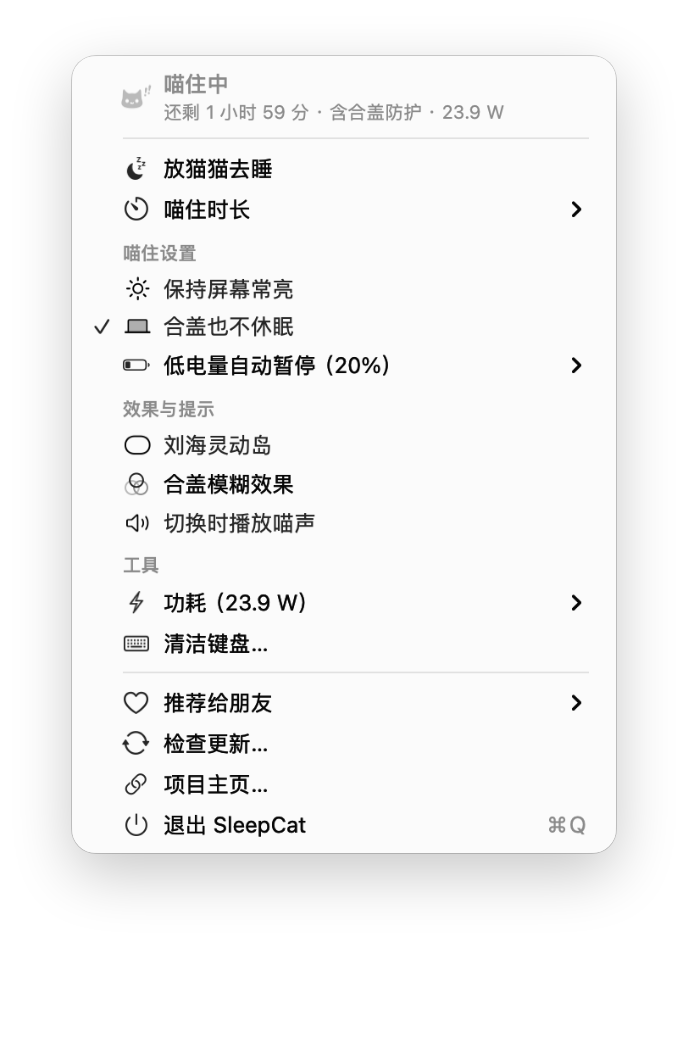
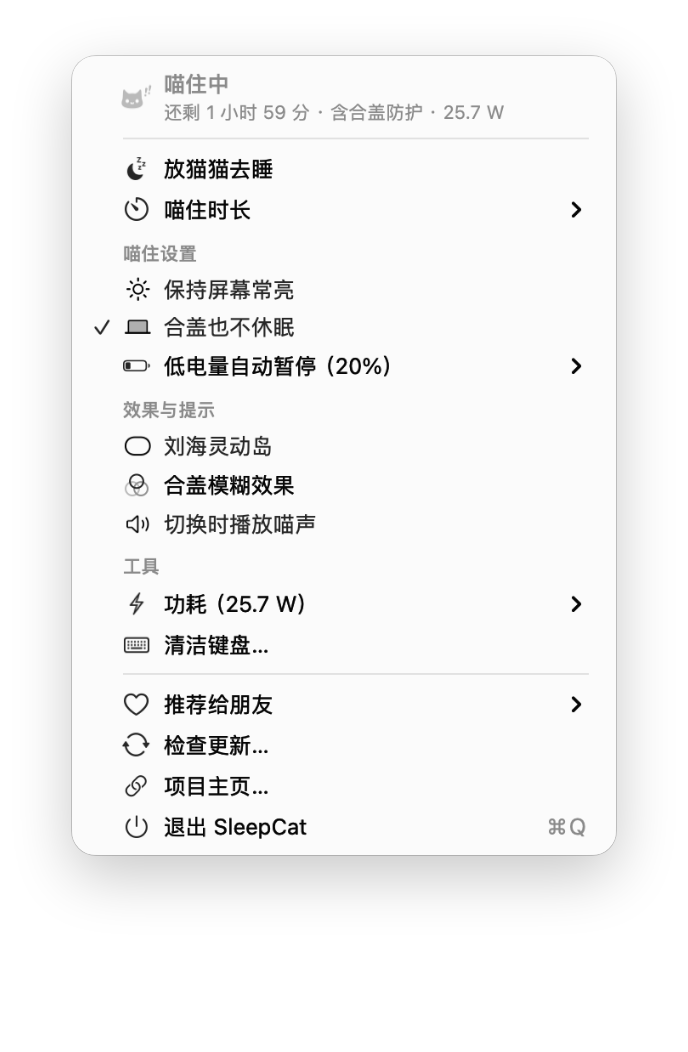
Drop the 今天用电 line
It summed the log rows that started today, which only covers the hours
the app happened to be running and recording — this evening that was 72
minutes, shown as if it were the whole day. A number that can't be right
shouldn't be on screen, so the menu and the chart window no longer show
it.

diff --git a/Sources/SleepCat/MenuRow.swift b/Sources/SleepCat/MenuRow.swift
@@ -118,25 +118,23 @@ private final class BackdropView: NSView {
     }
 }
 
-/// 功耗子菜单顶部的概览块：当前读数、统计、曲线、今天用电合在一行里自绘，
+/// 功耗子菜单顶部的概览块：当前读数、统计、曲线合在一行里自绘，
 /// 左边界和下面那些带图标的操作行对齐，不再是三段各自为政的文字
 final class PowerSummaryView: NSView {
     private let current: String
     private let stats: String?
     private let chart: NSImage?
-    private let footnote: String?
     private let timeRange: (start: String, end: String)?
 
     /// 和 MenuRow 的图标列对齐
     private static let leading: CGFloat = 30
     private static let trailing: CGFloat = 20
 
-    init(current: String, stats: String?, chart: NSImage?, footnote: String?,
+    init(current: String, stats: String?, chart: NSImage?,
          timeRange: (start: String, end: String)? = nil) {
         self.current = current
         self.stats = stats
         self.chart = chart
-        self.footnote = footnote
         self.timeRange = timeRange
         super.init(frame: .zero)
         let chartHeight = chart?.size.height ?? 0
@@ -149,14 +147,12 @@ final class PowerSummaryView: NSView {
         }
         let widest = max(textWidth(current, size: 15, weight: .semibold),
                          textWidth(stats, size: 11),
-                         textWidth(footnote, size: 11),
                          chart?.size.width ?? 0)
         let width = max(widest + Self.leading + Self.trailing, 260)
         var height: CGFloat = 26                                  // 当前读数
         if stats != nil { height += 16 }
         if chart != nil { height += chartHeight + 8 }
         if chart != nil, timeRange != nil { height += 13 }
-        if footnote != nil { height += 16 }
         setFrameSize(NSSize(width: width, height: height + 8))
         autoresizingMask = [.width]
     }
@@ -184,10 +180,6 @@ final class PowerSummaryView: NSView {
                      font: font, color: .tertiaryLabelColor)
             }
         }
-        if let footnote {
-            y -= 16
-            draw(footnote, at: NSPoint(x: Self.leading, y: y), font: .systemFont(ofSize: 11), color: .secondaryLabelColor)
-        }
     }
 
     private func draw(_ text: String, at point: NSPoint, font: NSFont, color: NSColor) {
@@ -204,7 +196,6 @@ final class PowerSummaryView: NSView {
                 current: "当前 12.5 W",
                 stats: PowerMeter.statsText(history).map { "近 \(PowerHistory.spanText(history.span))　\($0)" },
                 chart: PowerChart.image(for: history),
-                footnote: "今天用电 12.4 Wh",
                 timeRange: history.samples.first.map { (PowerAxis.timeLabel($0.time), "现在") })
             view.appearance = appearance
             // 菜单里是半透明底，这里垫一层菜单底色，不然浅色文字在透明底上看不见

diff --git a/Sources/SleepCat/PowerWindow.swift b/Sources/SleepCat/PowerWindow.swift
@@ -12,12 +12,10 @@ final class PowerWindowController: NSObject, NSWindowDelegate {
     private var window: NSWindow?
     private var chart: PowerChartView?
     private var timer: Timer?
-    private var source: (() -> (history: PowerHistory, footnote: String?))?
+    private var source: (() -> PowerHistory)?
 
-    /// - Parameters:
-    ///   - history: 每次刷新时现取，窗口不自己存数据
-    ///   - footnote: 底部那行（今天用电），文案和菜单里保持一致
-    func show(history: @escaping () -> (history: PowerHistory, footnote: String?)) {
+    /// - Parameter history: 每次刷新时现取，窗口不自己存数据
+    func show(history: @escaping () -> PowerHistory) {
         source = history
         if let window {
             refresh()
@@ -47,9 +45,7 @@ final class PowerWindowController: NSObject, NSWindowDelegate {
 
     private func refresh() {
         guard let source else { return }
-        let snapshot = source()
-        chart?.history = snapshot.history
-        chart?.footnote = snapshot.footnote
+        chart?.history = source()
         chart?.needsDisplay = true
     }
 
@@ -64,7 +60,6 @@ final class PowerChartView: NSView {
     var history = PowerHistory() {
         didSet { needsDisplay = true }
     }
-    var footnote: String?
     /// 切换跨度后回调，让菜单那边也跟着变
     var onSpanChange: (() -> Void)?
 
@@ -227,10 +222,6 @@ final class PowerChartView: NSView {
             let labelX = min(max(x - width / 2, plot.minX), plot.maxX - width)
             draw(text, at: NSPoint(x: labelX, y: plot.minY - 28), font: font, color: .tertiaryLabelColor)
         }
-        if let footnote {
-            draw(footnote, at: NSPoint(x: inset.left, y: 8),
-                 font: .systemFont(ofSize: 11), color: .secondaryLabelColor)
-        }
     }
 
     private func draw(_ text: String, at point: NSPoint, font: NSFont, color: NSColor) {
@@ -252,7 +243,6 @@ final class PowerChartView: NSView {
             let view = PowerChartView(frame: NSRect(x: 0, y: 0, width: 520, height: 300))
             view.appearance = appearance
             view.history = history
-            view.footnote = "今天用电 12.4 Wh"
             view.layoutSubtreeIfNeeded()
             guard let rep = view.bitmapImageRepForCachingDisplay(in: view.bounds) else { continue }
             view.cacheDisplay(in: view.bounds, to: rep)

diff --git a/Sources/SleepCat/main.swift b/Sources/SleepCat/main.swift
@@ -511,14 +511,10 @@ final class SleepCatApp: NSObject, NSApplicationDelegate, NSMenuDelegate {
 
     @objc private func openPowerWindow() {
         PowerWindowController.shared.show { [weak self] in
-            (self?.powerHistory ?? PowerHistory(), self?.powerFootnote())
+            self?.powerHistory ?? PowerHistory()
         }
     }
 
-    /// 今天累计用了多少电，菜单和曲线窗口用同一行文案
-    private func powerFootnote() -> String? {
-        PowerLog.todayWattHours().map { "今天用电 \(PowerMeter.energyText($0))" }
-    }
 
     @objc private func openPowerLog() {
         let url = PowerLog.fileURL
@@ -794,7 +790,7 @@ final class SleepCatApp: NSObject, NSApplicationDelegate, NSMenuDelegate {
         item.title = "功耗（\(PowerMeter.wattsText(watts))）"
         item.toolTip = "整机功耗，读自系统管理控制器（SMC）"
 
-        // 概览：当前读数 + 统计 + 曲线 + 今天用电，一块自绘，左边界和下面的操作行对齐
+        // 概览：当前读数 + 统计 + 曲线，一块自绘，左边界和下面的操作行对齐
         let sub = NSMenu()
         let visible = powerHistory.limited(to: PowerSpan.current)
         let summary = NSMenuItem(title: "当前 \(PowerMeter.wattsText(watts))", action: nil, keyEquivalent: "")
@@ -803,7 +799,6 @@ final class SleepCatApp: NSObject, NSApplicationDelegate, NSMenuDelegate {
             current: "当前 \(PowerMeter.wattsText(watts))",
             stats: PowerMeter.statsText(visible).map { "近 \(PowerHistory.spanText(visible.span))　\($0)" },
             chart: PowerChart.image(for: visible),
-            footnote: powerFootnote(),
             timeRange: visible.samples.first.map { (PowerAxis.timeLabel($0.time), "现在") })
         sub.addItem(summary)
 

diff --git a/Sources/SleepCat/PowerMeter.swift b/Sources/SleepCat/PowerMeter.swift
@@ -159,28 +159,6 @@ enum PowerLog {
             return (time, watts)
         }
     }
-
-    /// 记录文件里今天的累计用电，菜单上显示用
-    static func todayWattHours(now: Date = Date(), calendar: Calendar = .current) -> Double? {
-        guard let text = try? String(contentsOf: fileURL, encoding: .utf8) else { return nil }
-        return sumWattHours(inCSV: text, on: now, calendar: calendar)
-    }
-
-    /// 纯函数，便于测试
-    static func sumWattHours(inCSV text: String, on day: Date, calendar: Calendar = .current) -> Double? {
-        let f = DateFormatter()
-        f.calendar = calendar
-        f.timeZone = calendar.timeZone
-        f.dateFormat = "yyyy-MM-dd"
-        let today = f.string(from: day)
-        var total: Double?
-        for line in text.split(separator: "\n").dropFirst() {
-            let cells = line.split(separator: ",", omittingEmptySubsequences: false)
-            guard cells.count >= 4, cells[0].hasPrefix(today), let wh = Double(cells[3]) else { continue }
-            total = (total ?? 0) + wh
-        }
-        return total
-    }
 }
 
 /// SMC（系统管理控制器）只读客户端。

diff --git a/Tests/SleepCatTests/SleepCatTests.swift b/Tests/SleepCatTests/SleepCatTests.swift
@@ -588,21 +588,6 @@ import AppKit
         #expect(cells[3] == "10.00")         // 用电 Wh
     }
 
-    @Test func sumsTodayFromTheLog() {
-        let csv = """
-        \(PowerLog.header)
-        2026-09-16 01:00,2026-09-16 02:00,60,10.00,10.0,22.0,360
-        2026-09-16 09:00,2026-09-16 09:30,30,4.50,9.0,15.0,180
-        2026-09-15 23:00,2026-09-15 23:30,30,3.00,6.0,11.0,180
-        """
-        var cal = Calendar(identifier: .gregorian)
-        cal.timeZone = TimeZone(identifier: "Asia/Shanghai")!
-        let day = cal.date(from: DateComponents(year: 2026, month: 9, day: 16, hour: 12))!
-        let total = PowerLog.sumWattHours(inCSV: csv, on: day, calendar: cal)
-        #expect(total.map { abs($0 - 14.5) < 0.001 } == true)
-        #expect(PowerLog.sumWattHours(inCSV: PowerLog.header, on: day, calendar: cal) == nil)
-    }
-
     @Test func appendsToTheLogFile() throws {
         let url = FileManager.default.temporaryDirectory
             .appendingPathComponent("sleepcat-power-\(UUID().uuidString)/功耗记录.csv")
